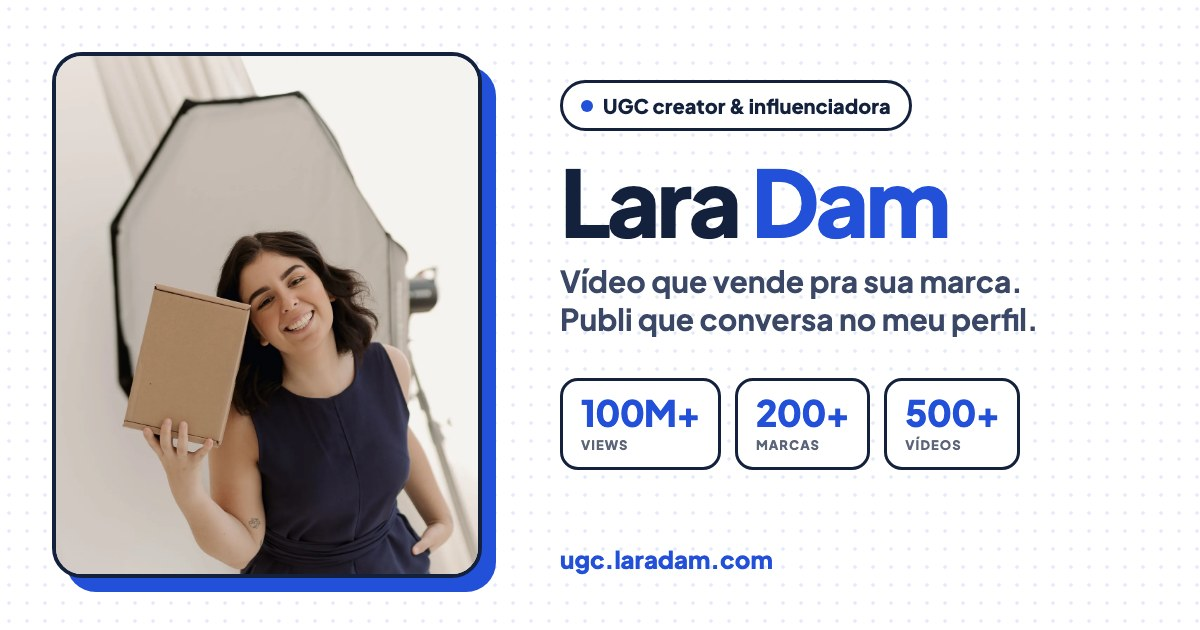
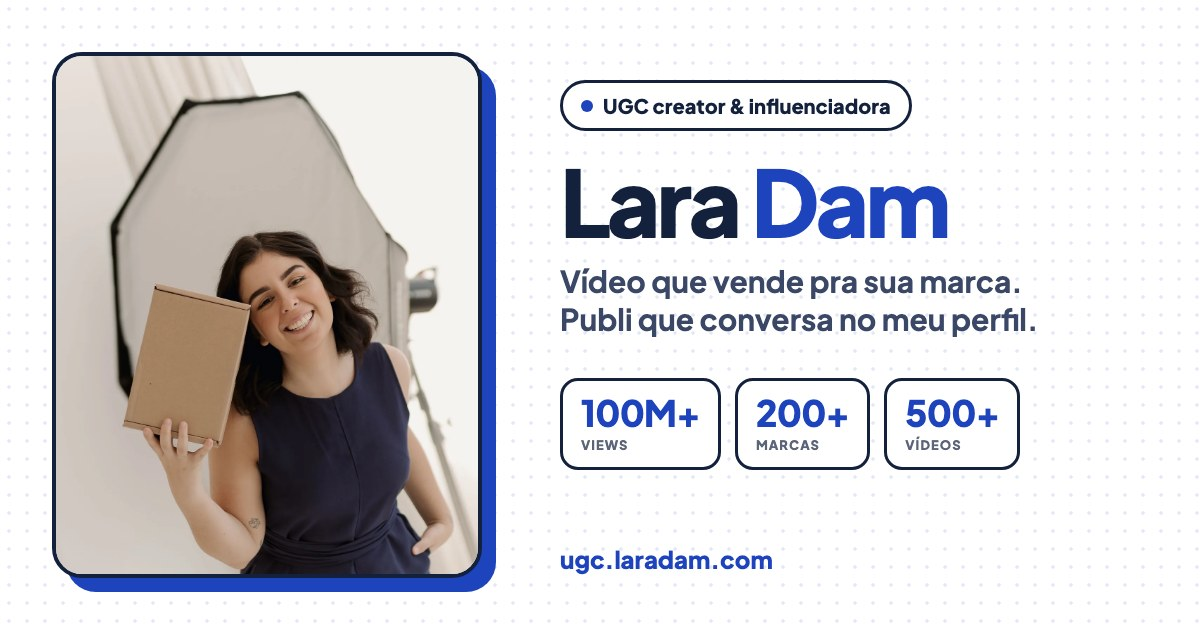
Pele do mídia kit: azul mais escuro em todas as páginas novas, pop-up de lead opaco, capa do /ugc com a foto das caixas recortada

diff --git a/src/app/ugc/skin.css b/src/app/ugc/skin.css
@@ -5,8 +5,8 @@
   --background-alt:#F3F6FF;
   --foreground:#14213D;
   --foreground-soft:#3B4766;
-  --primary:#2350D8;
-  --primary-dark:#1A3FB0;
+  --primary:#1D43BD;
+  --primary-dark:#16349A;
   --primary-light:#E4EAFF;
   --accent-on-dark:#7F9DFF;
   --muted:#5B6478;
@@ -24,14 +24,14 @@
   min-height:100vh;
 }
 /* pontinhos azuis do mídia kit atrás de tudo */
-.skin-kit::before{content:"";position:fixed;inset:0;z-index:-1;background-image:radial-gradient(circle,rgba(35,80,216,.07) 1px,transparent 1.5px);background-size:16px 16px;pointer-events:none}
+.skin-kit::before{content:"";position:fixed;inset:0;z-index:-1;background-image:radial-gradient(circle,rgba(29,67,189,.07) 1px,transparent 1.5px);background-size:16px 16px;pointer-events:none}
 /* fontes: display e corpo viram Plus Jakarta; o itálico de acento vira a palavra em azul (sem itálico) */
 .skin-kit .font-display{font-family:var(--pf-font),system-ui,sans-serif;letter-spacing:-.025em}
 .skin-kit .font-serif-accent{font-family:var(--pf-font),system-ui,sans-serif;font-style:normal;font-weight:800}
 /* fundos chapados da home ficam transparentes pra mostrar os pontinhos (a capa e os serviços) */
-.skin-kit .bg-background{background-color:transparent}
+.skin-kit section.bg-background{background-color:transparent}
 .skin-kit .hero-grade{background-image:none!important}
-.skin-kit .hero-brilho{background:radial-gradient(circle,rgba(35,80,216,.14) 0%,transparent 70%)!important}
+.skin-kit .hero-brilho{background:radial-gradient(circle,rgba(29,67,189,.14) 0%,transparent 70%)!important}
 /* menu: sem sombra pesada, só uma linha */
 .skin-kit nav.fixed{box-shadow:none!important;border-bottom:1px solid var(--border);background:rgba(255,255,255,.94)!important}
 /* faixa de datas (Black Friday era amarela): no kit vira azul */

diff --git a/src/components/perfil/Cabecalho.tsx b/src/components/perfil/Cabecalho.tsx
@@ -65,7 +65,7 @@ export default function Cabecalho({ cab }: { cab: CabConfig }) {
           <div>
             <div className="pf-nome">
               <h1>{cab.usuario}</h1>
-              <svg width="26" height="26" viewBox="0 0 24 24" aria-label="verificada"><circle cx="12" cy="12" r="11" fill="#2350D8" /><path d="M7 12.5l3 3 7-7" stroke="#fff" strokeWidth="2.6" fill="none" strokeLinecap="round" strokeLinejoin="round" /></svg>
+              <svg width="26" height="26" viewBox="0 0 24 24" aria-label="verificada"><circle cx="12" cy="12" r="11" fill="#1D43BD" /><path d="M7 12.5l3 3 7-7" stroke="#fff" strokeWidth="2.6" fill="none" strokeLinecap="round" strokeLinejoin="round" /></svg>
               <a href={cab.cta.href} target="_blank" rel="noopener" className="pf-btn azul" data-track={cab.cta.track}>{cab.cta.rotulo}</a>
               {cab.segundo && (
                 <a href={cab.segundo.href} target={cab.segundo.externo ? "_blank" : undefined} rel="noopener" className="pf-btn" data-track={cab.segundo.track}>{cab.segundo.rotulo}</a>

diff --git a/src/app/perfil/perfil.css b/src/app/perfil/perfil.css
@@ -1,10 +1,10 @@
 /* /perfil: o site como um perfil de Instagram. Escopo .pf */
 .pf{
-  --bg:#FFFFFF;--ink:#14213D;--azul:#2350D8;--azul2:#E4EAFF;--azul3:#C9D6FF;--cinza:#5B6478;--linha:#E5E7EB;
+  --bg:#FFFFFF;--ink:#14213D;--azul:#1D43BD;--azul2:#E4EAFF;--azul3:#C9D6FF;--cinza:#5B6478;--linha:#E5E7EB;
   --claro:#F3F6FF;--claro2:#E4EAFF;--azulmedio:#7F9DFF;
   font-family:var(--pf-font),system-ui,sans-serif;color:var(--ink);background:var(--bg);min-height:100vh;position:relative;
 }
-.pf::before{content:"";position:fixed;inset:0;background-image:radial-gradient(circle,rgba(35,80,216,.07) 1px,transparent 1.5px);background-size:16px 16px;pointer-events:none;z-index:0}
+.pf::before{content:"";position:fixed;inset:0;background-image:radial-gradient(circle,rgba(29,67,189,.07) 1px,transparent 1.5px);background-size:16px 16px;pointer-events:none;z-index:0}
 .pf>*{position:relative;z-index:1}
 .pf-mao{font-family:var(--pf-mao),cursive;font-weight:600}
 .pf-wrap{max-width:1080px;margin:0 auto;padding:0 16px}

diff --git a/src/components/heroes/HeroOption6.tsx b/src/components/heroes/HeroOption6.tsx
@@ -10,7 +10,7 @@ const ACCENT = "var(--primary)";
 const ACCENT_DARK = "var(--primary-dark)";
 const ACCENT_LIGHT = "var(--accent-on-dark)";
 
-export default function HeroOption6() {
+export default function HeroOption6({ foto }: { foto?: string } = {}) {
   const t = useT();
   return (
     <section
@@ -120,7 +120,7 @@ export default function HeroOption6() {
             transition={{ delay: 0.4, duration: 0.9, ease: [0.16, 1, 0.3, 1] }}
             className="relative z-10 flex items-end justify-center origin-bottom"
           >
-            <HeroPhoto className="lara-hero-photo w-auto h-[46vh] sm:h-[56vh] md:h-[74vh] max-w-full object-contain object-bottom" />
+            <HeroPhoto src={foto} className="lara-hero-photo w-auto h-[46vh] sm:h-[56vh] md:h-[74vh] max-w-full object-contain object-bottom" />
           </motion.div>
 
           {/* Bubble 1 — direita (flutua devagar pra cima/baixo, zoom no hover) */}

diff --git a/src/components/heroes/_shared.tsx b/src/components/heroes/_shared.tsx
@@ -5,11 +5,15 @@ import { useState } from "react";
 export function HeroPhoto({
   className = "",
   rounded = false,
+  src,
 }: {
   className?: string;
   rounded?: boolean;
+  /** Foto recortada (fundo transparente) pra usar no lugar da padrão. */
+  src?: string;
 }) {
   const SOURCES = [
+    ...(src ? [src] : []),
     "/lara-fundo.png",
     "/larafundo.png",
     "/lara-hero.png",
@@ -21,7 +25,7 @@ export function HeroPhoto({
 
   if (failed) return null;
 
-  const isPng = SOURCES[idx]?.endsWith(".png");
+  const isPng = /\.(png|webp)$/.test(SOURCES[idx] ?? "");
 
   return (
     /* eslint-disable-next-line @next/next/no-img-element */

diff --git a/src/app/ugc/page.tsx b/src/app/ugc/page.tsx
@@ -40,7 +40,8 @@ export default function UgcPage() {
       <TagBarra />
       <main className="flex-1 pt-[var(--barra-topo,0px)]">
         <Nav />
-        <Hero />
+        {/* capa do /ugc: foto do ensaio com as caixas, recortada (outras prontas: capa-caixa-rosto.webp, capa-torre.webp) */}
+        <Hero foto="/ensaio/capa-caixas.webp" />
         <Marquee />
         <Stats />
         <About />
